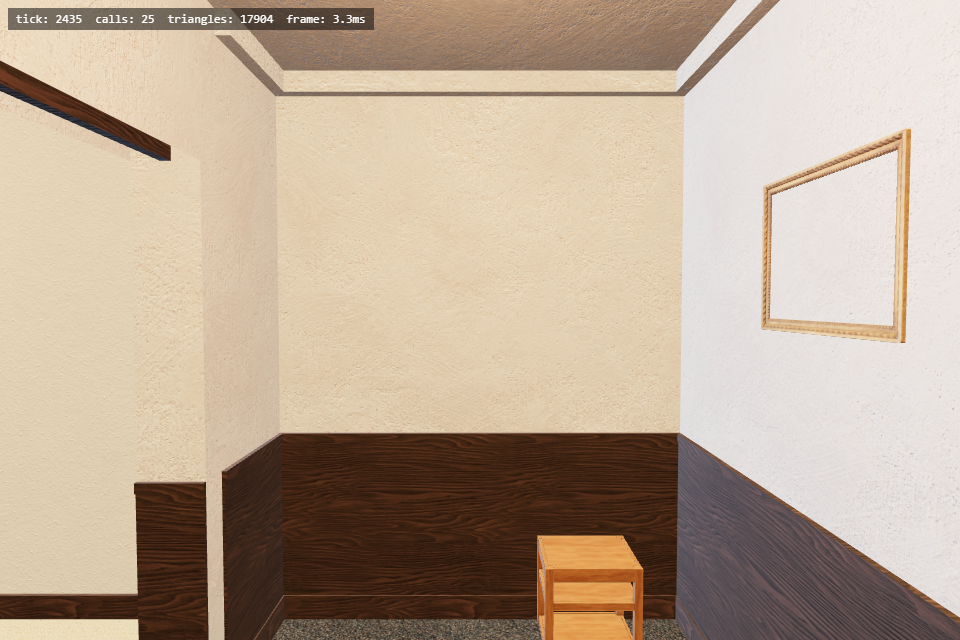
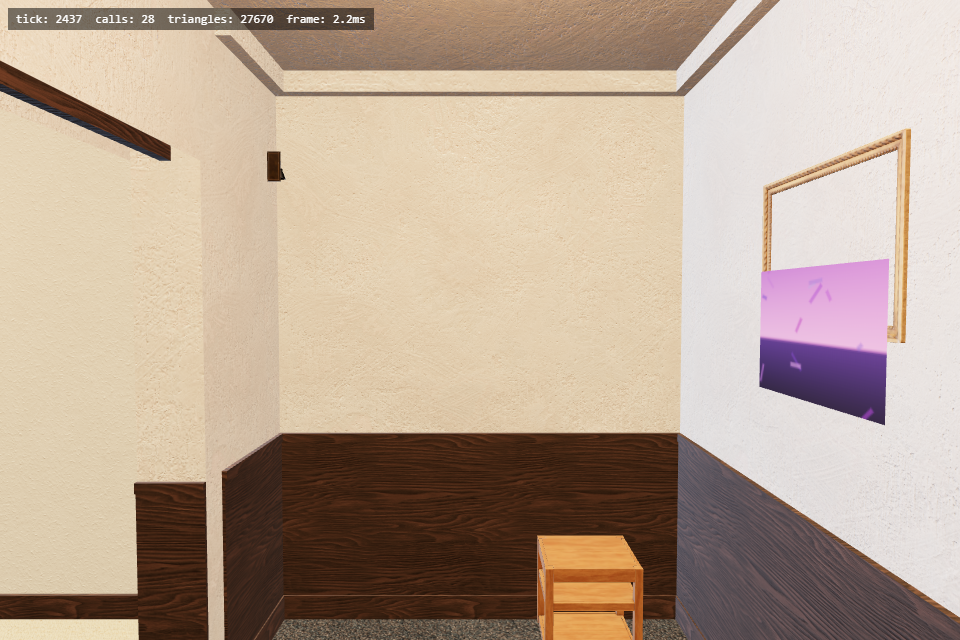
Cycle 3 W3 round 2: sconces through the shared room occupancy, painted canvases in frames, windows clear of the desk; decor builds before fixtures

Changed region(s): [[0.7812, 0.4062, 0.9375, 0.6562], [0.2812, 0.2188, 0.3125, 0.2812], [0.25, 0.0, 0.2812, 0.0312]]

diff --git a/apps/hotel/src/render/decor.ts b/apps/hotel/src/render/decor.ts
@@ -15,10 +15,10 @@
  */
 import * as THREE from "three";
 import type { GroundFloor } from "@claude-engine/interiors";
-import { roomRects, deskRect, cellCenterM, doorRects, WALL_HEIGHT_M, ROOM, type RoomRect } from "./floorplan.js";
+import { roomRects, deskRect, doorRects, WALL_HEIGHT_M, ROOM, type RoomRect } from "./floorplan.js";
 import { loadModel, fitToFootprint, makePbrMaterial } from "./assets.js";
 import { neonSignTexture, type HotelTier } from "./procedural.js";
-import { buildOccupancy, placeAgainstWall, placeOnWallSurface, placeCorner, wallPoint, WALL_SIDES, type WallSide } from "./placement.js";
+import { roomOccupancyFor, placeAgainstWall, placeOnWallSurface, placeCorner, wallPoint, WALL_SIDES, type WallSide } from "./placement.js";
 
 export type { HotelTier };
 
@@ -198,16 +198,80 @@ function buildPlant(): THREE.Group {
   return g;
 }
 
+/** Deterministic "painted-looking" canvas texture: a warm landscape
+ *  gradient (sky/horizon/ground bands keyed off the seed's hue) with a
+ *  handful of hashed brush strokes on top. Canvas 2D, never `Math.random`
+ *  -- every coordinate/length/hue below comes from re-hashing `seed`
+ *  through `hashInt`, the same chained-hash technique the rest of this
+ *  module uses for deterministic variety (see the file's determinism
+ *  note at the top: Math.* is fine here, this is host-only presentation
+ *  code, never hashed into sim state). */
+function paintingCanvasTexture(seed: number): THREE.CanvasTexture {
+  const w = 128;
+  const h = 96; // matches the 0.6 x 0.4 canvas plane's aspect ratio
+  const el = document.createElement("canvas");
+  el.width = w;
+  el.height = h;
+  const ctx = el.getContext("2d")!;
+  const seedHash = hashInt(seed);
+  const hue = seedHash % 360;
+
+  const grad = ctx.createLinearGradient(0, 0, 0, h);
+  grad.addColorStop(0, `hsl(${(hue + 15) % 360}, 45%, 58%)`);
+  grad.addColorStop(0.55, `hsl(${(hue + 35) % 360}, 55%, 72%)`);
+  grad.addColorStop(0.58, `hsl(${hue}, 42%, 32%)`);
+  grad.addColorStop(1, `hsl(${hue}, 38%, 16%)`);
+  ctx.fillStyle = grad;
+  ctx.fillRect(0, 0, w, h);
+
+  // Hashed brush strokes: chain `hashInt` to get a deterministic stream
+  // of pseudo-random-looking values without ever calling Math.random.
+  let stream = seedHash;
+  const strokeCount = 10 + (stream % 6);
+  for (let i = 0; i < strokeCount; i++) {
+    stream = hashInt(stream + i * 7919);
+    const sx = ((stream % 1000) / 1000) * w;
+    stream = hashInt(stream);
+    const sy = ((stream % 1000) / 1000) * h;
+    stream = hashInt(stream);
+    const len = 5 + (stream % 16);
+    stream = hashInt(stream);
+    const ang = ((stream % 360) * Math.PI) / 180;
+    stream = hashInt(stream);
+    const strokeHue = (hue + (stream % 60) - 30 + 360) % 360;
+    stream = hashInt(stream);
+    const lightness = 35 + (stream % 35);
+    ctx.strokeStyle = `hsla(${strokeHue}, 50%, ${lightness}%, 0.55)`;
+    ctx.lineWidth = 1 + (stream % 3);
+    ctx.beginPath();
+    ctx.moveTo(sx, sy);
+    ctx.lineTo(sx + Math.cos(ang) * len, sy + Math.sin(ang) * len);
+    ctx.stroke();
+  }
+
+  const texture = new THREE.CanvasTexture(el);
+  texture.colorSpace = THREE.SRGBColorSpace;
+  return texture;
+}
+
 function buildPainting(seed: number): THREE.Group {
   const g = new THREE.Group();
   const frame = new THREE.Mesh(new THREE.BoxGeometry(0.7, 0.5, 0.04), mat("wood-trim", 0x5a3d24, 0.5));
-  const h = hashInt(seed);
-  const canvasColor = new THREE.Color().setHSL((h % 360) / 360, 0.35, 0.4);
-  const canvas = new THREE.Mesh(new THREE.PlaneGeometry(0.6, 0.4), new THREE.MeshStandardMaterial({ color: canvasColor, roughness: 0.9 }));
-  canvas.position.z = 0.025;
-  g.add(frame, canvas);
+  g.add(frame);
   shadowize(g);
+  // Only the FRAME is wrapped as the upgrade-in-place fallback -- the
+  // procedural artwork below is added straight to `g` afterward, as a
+  // sibling of both the fallback frame and (once it resolves) the loaded
+  // glTF frame, so it stays visible either way. Needed because the
+  // Poly Haven "painting" model is a bare frame with no artwork baked in
+  // (COO review R1): without this, tier 2 renders an empty gilt rectangle.
   upgrade(g, wrapChildren(g), "painting", { w: 0.7, d: 0.05, h: 0.5 });
+
+  const texture = paintingCanvasTexture(seed);
+  const canvas = new THREE.Mesh(new THREE.PlaneGeometry(0.6, 0.4), new THREE.MeshStandardMaterial({ map: texture, roughness: 0.9 }));
+  canvas.position.z = 0.025;
+  shadowize(canvas);
+  g.add(canvas);
   return g;
 }
 
@@ -550,7 +614,10 @@ function buildCurtains(widthM: number): THREE.Group {
 
 function buildLobby(group: THREE.Group, floor: GroundFloor, room: RoomRect): void {
   const desk = deskRect(floor);
-  const occ = buildOccupancy(floor, room, { deskRect: desk, lobbyDoorLane: true });
+  // Shared with fixtures.ts (sconces) via a memoised instance keyed on
+  // (floor, room, tier) -- see placement.ts `roomOccupancyFor` -- so the
+  // two modules never independently pick "the middle of the nicest wall".
+  const occ = roomOccupancyFor(floor, room, activeTier);
 
   // Seating cluster in the east half against north or south wall, clear of
   // the desk/queue lane and the entrance->corridor walking lane (both
@@ -663,7 +730,7 @@ function buildLobby(group: THREE.Group, floor: GroundFloor, room: RoomRect): voi
 }
 
 function buildCorridor(group: THREE.Group, floor: GroundFloor, room: RoomRect): void {
-  const occ = buildOccupancy(floor, room);
+  const occ = roomOccupancyFor(floor, room, activeTier);
 
   // Console table + plant centred on the end wall (south, the far end from
   // the lobby door which sits at the north end of the corridor).
@@ -727,8 +794,10 @@ function isExteriorSide(floor: GroundFloor, room: RoomRect, side: WallSide): boo
 }
 
 function buildBedroom(group: THREE.Group, floor: GroundFloor, room: RoomRect, bedroom: GroundFloor["bedrooms"][number]): void {
-  const goal = cellCenterM(bedroom.goalCx, bedroom.goalCz);
-  const occ = buildOccupancy(floor, room, { bedroomGoals: [goal] });
+  // The goal-cell block is now computed inside `roomOccupancyFor` itself
+  // (shared with fixtures.ts), so this function no longer needs its own
+  // copy of the goal centre.
+  const occ = roomOccupancyFor(floor, room, activeTier);
 
   const rug = buildRug(Math.min(room.widthM - 0.6, 2.4), Math.min(room.depthM - 0.6, 2.4));
   rug.position.set(room.centerXM, 0, room.centerZM);

diff --git a/apps/hotel/src/render/fixtures.ts b/apps/hotel/src/render/fixtures.ts
@@ -6,8 +6,9 @@
  */
 import * as THREE from "three";
 import type { GroundFloor } from "@claude-engine/interiors";
-import { roomRects, doorRects, ROOM, WALL_HEIGHT_M } from "./floorplan.js";
+import { roomRects, ROOM, WALL_HEIGHT_M } from "./floorplan.js";
 import { loadModel, fitToFootprint } from "./assets.js";
+import { roomOccupancyFor, placeOnWallSurface, type WallSide } from "./placement.js";
 import type { HotelTier } from "./procedural.js";
 
 export type { HotelTier };
@@ -124,20 +125,11 @@ function fallbackBareBulb(): THREE.Group {
   return g;
 }
 
-/** True when a wall-mounted point at (x,z) along the given axis falls
- *  inside any door's span — used to keep sconces out of doorways. */
-function insideAnyDoor(x: number, z: number, doors: ReturnType<typeof doorRects>, marginM = 0.3): boolean {
-  return doors.some(
-    (d) => x >= d.xM0 - marginM && x <= d.xM1 + marginM && z >= d.zM0 - marginM && z <= d.zM1 + marginM
-  );
-}
-
 export function buildFixtures(floor: GroundFloor, hotelTier: HotelTier): THREE.Group {
   const group = new THREE.Group();
   group.name = "fixtures";
 
   const rects = roomRects(floor);
-  const doors = doorRects(floor);
 
   // -- lobby: chandelier (tier 2), recessed cans (tier 1), fluorescent
   //    trough (tier 0) --
@@ -192,21 +184,23 @@ export function buildFixtures(floor: GroundFloor, hotelTier: HotelTier): THREE.G
     } else {
       addDownlightGrid(group, corridor.xM0, corridor.zM0, corridor.xM1, corridor.zM1);
 
-      const alongX = corridor.widthM >= corridor.depthM;
-      const spacingM = 3;
-      const sconceY = 2.15; // above the 1.5 m painting line (C2-W4 review P3)
-      if (alongX) {
-        const count = Math.max(1, Math.floor(corridor.widthM / spacingM));
-        for (let i = 1; i <= count; i++) {
-          const x = corridor.xM0 + (corridor.widthM * i) / (count + 1);
-          addSconcePair(group, x, corridor.zM0, corridor.zM1, sconceY, doors, "x", hotelTier);
-        }
-      } else {
-        const count = Math.max(1, Math.floor(corridor.depthM / spacingM));
-        for (let i = 1; i <= count; i++) {
-          const z = corridor.zM0 + (corridor.depthM * i) / (count + 1);
-          addSconcePair(group, z, corridor.xM0, corridor.xM1, sconceY, doors, "z", hotelTier);
-        }
+      // Sconces routed through the SAME shared placement solver/occupancy
+      // grid decor.ts uses for paintings (`roomOccupancyFor` -- see
+      // placement.ts), rather than a fixed 3m stepping loop that never
+      // consulted anything. `clearanceM=0.6` keeps a sconce at least 0.6m
+      // from any painting span already blocked on this wall's channel
+      // (COO review W3-1). sconceY stays 2.15 -- above the 1.5m painting
+      // line -- as a belt-and-braces height separation on top of the
+      // now-real spatial one.
+      const sconceY = 2.15;
+      const sconceSides: WallSide[] = corridor.widthM >= corridor.depthM ? ["north", "south"] : ["west", "east"];
+      const corridorOcc = roomOccupancyFor(floor, corridor, hotelTier);
+      // Same longest-run-first behaviour as the painting loops in
+      // decor.ts: keep asking until the solver has nothing left to give.
+      for (let i = 0; i < 8; i++) {
+        const pose = placeOnWallSurface(corridorOcc, 0.2, 0.2, sconceSides, 0.15, 0.6);
+        if (!pose) break;
+        addSconceAt(group, pose.x, pose.z, pose.yawRad, sconceY, hotelTier);
       }
     }
   }
@@ -249,43 +243,31 @@ function addDownlightGrid(group: THREE.Group, xM0: number, zM0: number, xM1: num
   }
 }
 
-/** Places a sconce on each of the two walls perpendicular to `crossAxis` at
- *  fixed coordinate `along`, spanning between `crossM0`/`crossM1`, skipping
- *  any position that falls inside a door span. */
-function addSconcePair(
-  group: THREE.Group,
-  along: number,
-  crossM0: number,
-  crossM1: number,
-  yM: number,
-  doors: ReturnType<typeof doorRects>,
-  axis: "x" | "z",
-  hotelTier: HotelTier
-): void {
-  const positions: Array<[number, number]> =
-    axis === "x"
-      ? [
-          [along, crossM0 + 0.05],
-          [along, crossM1 - 0.05],
-        ]
-      : [
-          [crossM0 + 0.05, along],
-          [crossM1 - 0.05, along],
-        ];
-  for (const [x, z] of positions) {
-    if (insideAnyDoor(x, z, doors)) continue;
-    const sconceGroup = new THREE.Group();
-    sconceGroup.position.set(x, yM, z);
-    sconceGroup.add(fallbackSconce());
-    group.add(sconceGroup);
+/** Places one sconce at a pose returned by `placeOnWallSurface` (world
+ *  x/z already flush to the wall) -- replaces the old `addSconcePair`'s
+ *  fixed-spacing loop plus its own door check, both now subsumed by the
+ *  shared solver/occupancy grid (COO review W3-1: the solver's own door
+ *  lane blocking is what used to be `insideAnyDoor`, now for real instead
+ *  of a second bespoke check). Insets 0.05m off the wall face, same as the
+ *  fixed-loop version did, so the bracket doesn't z-fight the wall mesh. */
+function addSconceAt(group: THREE.Group, xOnWall: number, zOnWall: number, yawRad: number, yM: number, hotelTier: HotelTier): void {
+  // `yawRad` faces INTO the room (same convention as placement.ts's
+  // `wallPoint`), so stepping 0.05m along it insets the sconce off the
+  // wall face without needing to know which side it came from.
+  const insetM = 0.05;
+  const x = xOnWall + Math.sin(yawRad) * insetM;
+  const z = zOnWall + Math.cos(yawRad) * insetM;
+  const sconceGroup = new THREE.Group();
+  sconceGroup.position.set(x, yM, z);
+  sconceGroup.add(fallbackSconce());
+  group.add(sconceGroup);
 
-    if (hotelTier === 2) {
-      void loadModel("wall-sconce").then((model) => {
-        if (!model) return;
-        fitToFootprint(model.scene, { w: 0.15, d: 0.1, h: 0.2 });
-        sconceGroup.clear();
-        sconceGroup.add(model.scene);
-      });
-    }
+  if (hotelTier === 2) {
+    void loadModel("wall-sconce").then((model) => {
+      if (!model) return;
+      fitToFootprint(model.scene, { w: 0.15, d: 0.1, h: 0.2 });
+      sconceGroup.clear();
+      sconceGroup.add(model.scene);
+    });
   }
 }

diff --git a/apps/hotel/src/render/placement.ts b/apps/hotel/src/render/placement.ts
@@ -13,7 +13,7 @@
  * mark what they use (plus a small usage margin), and return `undefined`
  * when nothing fits so callers can omit the item instead of overlapping.
  */
-import { CELL_M, doorRects, type RoomRect } from "./floorplan.js";
+import { CELL_M, deskRect, cellCenterM, doorRects, type RoomRect } from "./floorplan.js";
 import type { GroundFloor } from "@claude-engine/interiors";
 
 const GRID_M = 0.25;
@@ -205,6 +205,43 @@ export function buildOccupancy(
 }
 
 // -- wall runs ------------------------------------------------------------
+
+/** Memoised per (floor, room, tier) so `decor.ts` and `fixtures.ts` --
+ *  different modules, both called once per (floor, hotelTier) render pass
+ *  from `main.ts`/`tour.ts` -- build against the exact SAME `RoomOccupancy`
+ *  instance instead of two independent grids that can never see each
+ *  other's wall-mounted items (COO review W3-1: sconces bypassed the
+ *  solver entirely because they had no shared grid to route through).
+ *  `floor` is a stable object for the lifetime of one render pass, so a
+ *  `WeakMap` keyed on it (then on `roomId:tier`) is exactly "once per
+ *  render pass, shared across modules" without either module needing to
+ *  pass the other's options in. Desk/lobby-lane/bedroom-goal options are
+ *  derived internally from `floor`/`room` so callers need only the three
+ *  positional args. */
+const occupancyCache = new WeakMap<GroundFloor, Map<string, RoomOccupancy>>();
+
+export function roomOccupancyFor(floor: GroundFloor, room: RoomRect, tier: number): RoomOccupancy {
+  let byKey = occupancyCache.get(floor);
+  if (!byKey) {
+    byKey = new Map();
+    occupancyCache.set(floor, byKey);
+  }
+  const key = `${room.roomId}:${tier}`;
+  let occ = byKey.get(key);
+  if (occ) return occ;
+
+  const opts: Parameters<typeof buildOccupancy>[2] = {};
+  if (room.kind === "lobby") {
+    opts.deskRect = deskRect(floor);
+    opts.lobbyDoorLane = true;
+  }
+  if (room.kind === "bedroom") {
+    opts.bedroomGoals = floor.bedrooms.filter((b) => b.roomId === room.roomId).map((b) => cellCenterM(b.goalCx, b.goalCz));
+  }
+  occ = buildOccupancy(floor, room, opts);
+  byKey.set(key, occ);
+  return occ;
+}
 
 /** Free spans (in the "along the wall" coordinate) along `side` of `room`,
  *  found by sampling every GRID_M and merging free samples into runs. This

diff --git a/apps/hotel/src/render/architecture.ts b/apps/hotel/src/render/architecture.ts
@@ -663,6 +663,24 @@ export function buildArchitecture(floor: GroundFloor, hotelTier: HotelTier): THR
       const midZ = (z0 + z1) / 2;
       if (nearDoorSpanM(bx, midZ, 0.3)) return;
       if (z1 - z0 < winW + 0.4) return;
+      // Skip a window whose glass/frame would land near the front desk
+      // when the desk is flush against THIS wall (COO review W3-2: a fake
+      // window's frame -- not a pilaster -- was the "full-height pale
+      // column" bisecting the tier-0 desk from the desk pose, since window
+      // generation never consulted the desk rect at all, at any tier). A
+      // 0.5m margin was not enough: the offending window's glass edge sat
+      // only ~0.65m from the desk, well inside the desk pose's near field
+      // of view even though its FOOTPRINT technically cleared the rect --
+      // 1.0m keeps a window from reading as "next to the desk" from where
+      // a guest actually stands to look at it, not just off the rect.
+      const deskWindowMarginM = 1.0;
+      if (
+        desk &&
+        Math.abs(desk.xM0 - bx) < 0.3 &&
+        midZ > desk.zM0 - deskWindowMarginM - winW / 2 &&
+        midZ < desk.zM1 + deskWindowMarginM + winW / 2
+      )
+        return;
       // one per ~3m: skip if too close to previous window on this wall coordinate
       const g = new THREE.PlaneGeometry(winW, winH);
       g.rotateY(Math.PI / 2);
@@ -680,6 +698,16 @@ export function buildArchitecture(floor: GroundFloor, hotelTier: HotelTier): THR
       const midX = (x0 + x1) / 2;
       if (nearDoorSpanM(midX, bz, 0.3)) return;
       if (x1 - x0 < winW + 0.4) return;
+      // Same desk exclusion as tryWindowX (1.0m margin, see there), for a
+      // north/south-wall desk.
+      const deskWindowMarginZ = 1.0;
+      if (
+        desk &&
+        Math.abs(desk.zM0 - bz) < 0.3 &&
+        midX > desk.xM0 - deskWindowMarginZ - winW / 2 &&
+        midX < desk.xM1 + deskWindowMarginZ + winW / 2
+      )
+        return;
       const g = new THREE.PlaneGeometry(winW, winH);
       g.translate(midX, sillY + winH / 2, bz + (solidOnPlus ? 0.01 : -0.01));
       glassGeoms.push(g);

diff --git a/apps/hotel/src/main.ts b/apps/hotel/src/main.ts
@@ -721,8 +721,10 @@ const host = createThreeHost(sim, {
       const g = new THREE.Group();
       g.add(buildArchitecture(floor, hotelTier));
       g.add(buildExterior(floor, hotelTier));
-      g.add(buildFixtures(floor, hotelTier));
+      // Decor before fixtures: both share one RoomOccupancy per room
+      // (placement.ts), and paintings must claim wall space before sconces.
       g.add(buildDecor(floor, hotelTier));
+      g.add(buildFixtures(floor, hotelTier));
       return g;
     });
     sceneryByTier.set(hotelTier, tierGroup);
